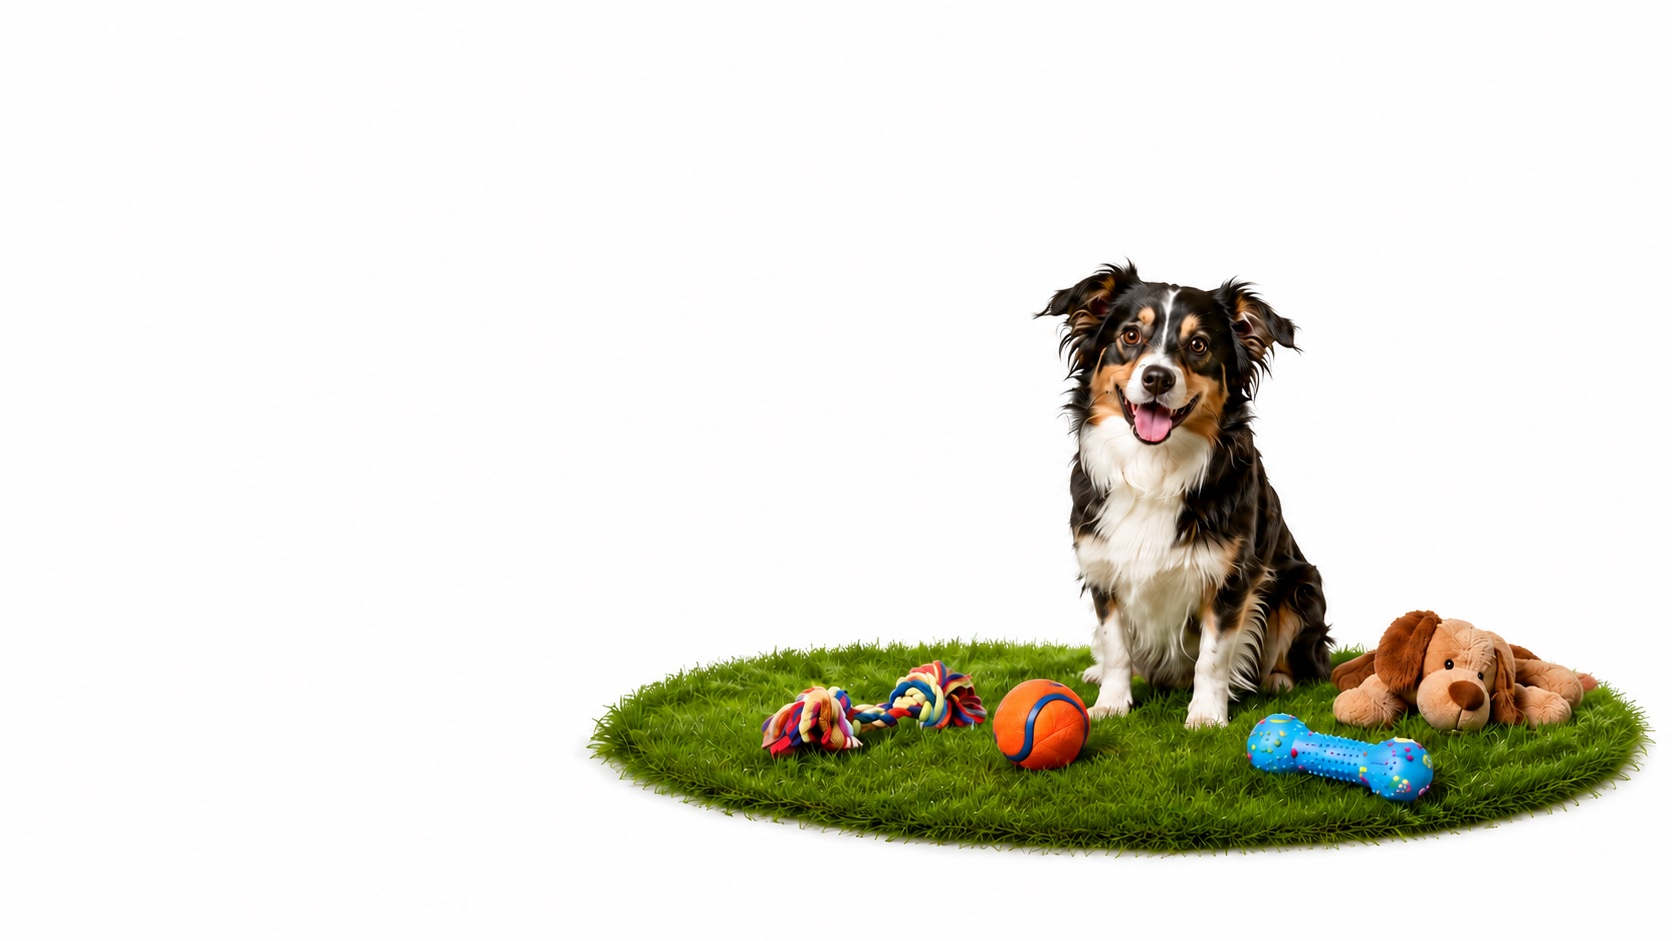
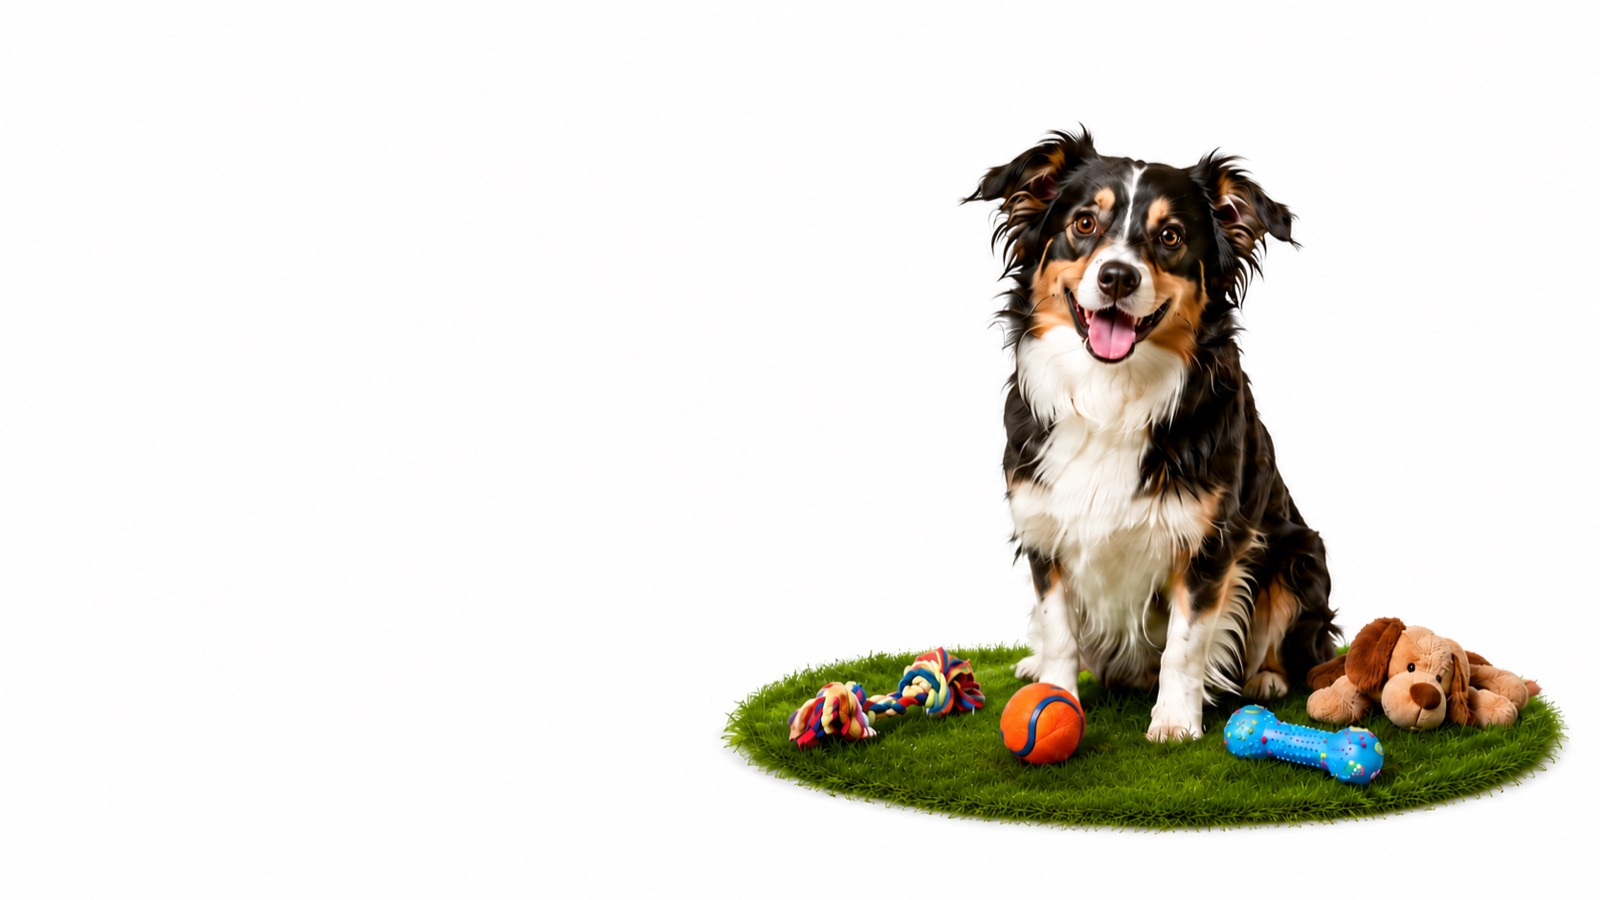
Hero a pantalla completa + tema blanco + fotos de categorías
- Hero: imagen de fondo a pantalla completa (100dvh), versión vertical en
  mobile y ancha en desktop, texto a la izquierda con velo solo a un lado,
  sin la card de dirección.
- Navbar: efecto gris glass liquid (blur + saturación + brillo de borde).
- Logo Zafari con fondo transparente (en nav y footer).
- Fondo del sitio, footer y catálogo en blanco.
- "Comprá por categoría": fotos reales de perro, gato y golden con juguete.
- Catálogo: keywords de imágenes más acordes a cada producto.
- Imagen mobile del hero optimizada.

Changed region(s): [[0.3438, 0.1244, 1.0, 0.9333]]

diff --git a/src/components/Hero.jsx b/src/components/Hero.jsx
@@ -1,6 +1,6 @@
 import { motion, useReducedMotion } from 'motion/react'
 import { Link } from 'react-router-dom'
-import { ArrowRight, ChatCircleDots, Storefront } from '../icons'
+import { ArrowRight, ChatCircleDots } from '../icons'
 
 export default function Hero() {
   const reduce = useReducedMotion()
@@ -11,20 +11,34 @@ export default function Hero() {
   })
 
   return (
-    <section id="top" className="bg-cream">
-      <div className="relative mx-auto max-w-7xl">
-        {/* imagen completa, a todo el ancho (sin recortar) */}
+    <section
+      id="top"
+      className="relative flex min-h-[100dvh] items-start overflow-hidden bg-white md:items-center"
+    >
+      {/* imagen de fondo a pantalla completa: vertical en mobile, ancha en desktop */}
+      <picture>
+        <source media="(min-width: 768px)" srcSet="/hero-bg.jpg" />
         <img
-          src="/hero-bg.jpg"
+          src="/hero-mobile.jpg"
           alt="Perro con sus juguetes en el pasto"
-          className="block h-auto w-full"
+          className="absolute inset-0 h-full w-full object-cover object-bottom md:object-right"
           loading="eager"
           fetchPriority="high"
         />
+      </picture>
+      {/* velo desktop: a la izquierda, para que el texto se lea sin opacar al perro */}
+      <div
+        aria-hidden
+        className="absolute inset-0 hidden bg-gradient-to-r from-white from-15% via-white/70 via-35% to-transparent to-55% md:block lg:to-50%"
+      />
+      {/* velo mobile: arriba, donde va el texto */}
+      <div
+        aria-hidden
+        className="absolute inset-0 bg-gradient-to-b from-white from-25% via-white/70 to-transparent to-55% md:hidden"
+      />
 
-        {/* contenido: debajo de la imagen en mobile, superpuesto en desktop */}
-        <div className="px-4 pb-12 pt-8 sm:px-6 lg:absolute lg:inset-0 lg:flex lg:items-center lg:px-10 lg:py-0">
-          <div className="max-w-xl lg:max-w-[48%]">
+      <div className="relative mx-auto w-full max-w-7xl px-4 pb-20 pt-20 sm:px-6 md:py-20 lg:px-10">
+        <div className="max-w-xl">
           <motion.span
             {...rise(0)}
             className="inline-flex items-center gap-2 rounded-full border border-line bg-surface px-3.5 py-1.5 text-xs font-semibold uppercase tracking-[0.14em] text-leaf"
@@ -70,21 +84,6 @@ export default function Hero() {
               Cómo comprar
             </a>
           </motion.div>
-
-          {/* local info */}
-          <motion.div
-            {...rise(0.32)}
-            className="mt-8 inline-flex items-center gap-3 rounded-2xl border border-line bg-surface/95 px-4 py-3 shadow-sm backdrop-blur-sm"
-          >
-            <span className="grid h-10 w-10 place-items-center rounded-xl bg-leaf-soft text-leaf-deep">
-              <Storefront weight="fill" size={20} />
-            </span>
-            <span className="text-sm leading-tight">
-              <span className="block font-bold text-ink">Avellaneda 1796 · Rosario</span>
-              <span className="text-ink-soft">Lun a Sáb · 9 a 19:30 hs</span>
-            </span>
-          </motion.div>
-          </div>
         </div>
       </div>
     </section>

diff --git a/src/data.js b/src/data.js
@@ -40,28 +40,28 @@ export const categories = [
 
 export const products = [
   // Alimento balanceado — Minorista
-  { id: 1, name: 'Balanceado Perro Adulto 15kg', brand: 'Old Prince', cat: 'alimento', sub: 'alimento-minorista', price: 38900, tag: 'Más vendido', img: f('dogfood,kibble', 11) },
-  { id: 2, name: 'Balanceado Gato Adulto 7.5kg', brand: 'Royal Canin', cat: 'alimento', sub: 'alimento-minorista', price: 41200, img: f('catfood', 12) },
-  { id: 3, name: 'Balanceado Cachorro 3kg', brand: 'Pro Plan', cat: 'alimento', sub: 'alimento-minorista', price: 18900, img: f('puppy,food', 13) },
+  { id: 1, name: 'Balanceado Perro Adulto 15kg', brand: 'Old Prince', cat: 'alimento', sub: 'alimento-minorista', price: 38900, tag: 'Más vendido', img: f('dogfood,bag', 11) },
+  { id: 2, name: 'Balanceado Gato Adulto 7.5kg', brand: 'Royal Canin', cat: 'alimento', sub: 'alimento-minorista', price: 41200, img: f('catfood,bag', 12) },
+  { id: 3, name: 'Balanceado Cachorro 3kg', brand: 'Pro Plan', cat: 'alimento', sub: 'alimento-minorista', price: 18900, img: f('dogfood,puppy', 13) },
   // Alimento balanceado — Mayorista
   { id: 4, name: 'Pallet Balanceado Adulto x12 (15kg)', brand: 'Dog Chow', cat: 'alimento', sub: 'alimento-mayorista', price: 410000, tag: 'Por mayor', img: f('dogfood,sacks', 14) },
-  { id: 5, name: 'Caja Alimento Gato x10 (7.5kg)', brand: 'Excellent', cat: 'alimento', sub: 'alimento-mayorista', price: 360000, tag: 'Por mayor', img: f('catfood,boxes', 15) },
+  { id: 5, name: 'Caja Alimento Gato x10 (7.5kg)', brand: 'Excellent', cat: 'alimento', sub: 'alimento-mayorista', price: 360000, tag: 'Por mayor', img: f('catfood,box', 15) },
 
   // Accesorios — Collares
   { id: 6, name: 'Collar Regulable de Nylon', brand: 'PetComfort', cat: 'accesorios', sub: 'accesorios-collares', price: 6800, img: f('dog,collar', 21) },
-  { id: 7, name: 'Collar Antipulgas', brand: 'Kong', cat: 'accesorios', sub: 'accesorios-collares', price: 9200, tag: 'Nuevo', img: f('pet,collar', 22) },
+  { id: 7, name: 'Collar Antipulgas', brand: 'Kong', cat: 'accesorios', sub: 'accesorios-collares', price: 9200, tag: 'Nuevo', img: f('puppy,collar', 22) },
   // Accesorios — Correas
   { id: 8, name: 'Correa Retráctil 5m', brand: 'PetComfort', cat: 'accesorios', sub: 'accesorios-correas', price: 12400, img: f('dog,leash', 23) },
-  { id: 9, name: 'Correa de Cuero Reforzada', brand: 'Kong', cat: 'accesorios', sub: 'accesorios-correas', price: 15900, img: f('leash,dog', 24) },
+  { id: 9, name: 'Correa de Cuero Reforzada', brand: 'Kong', cat: 'accesorios', sub: 'accesorios-correas', price: 15900, img: f('leather,leash', 24) },
   // Accesorios — Cosmética mascota
-  { id: 10, name: 'Shampoo Hipoalergénico 500ml', brand: 'Vitalcan', cat: 'accesorios', sub: 'accesorios-cosmetica', price: 7300, img: f('pet,shampoo', 25) },
-  { id: 11, name: 'Perfume para Mascotas 120ml', brand: 'Excellent', cat: 'accesorios', sub: 'accesorios-cosmetica', price: 5400, img: f('dog,grooming', 26) },
+  { id: 10, name: 'Shampoo Hipoalergénico 500ml', brand: 'Vitalcan', cat: 'accesorios', sub: 'accesorios-cosmetica', price: 7300, img: f('shampoo,bottle', 25) },
+  { id: 11, name: 'Perfume para Mascotas 120ml', brand: 'Excellent', cat: 'accesorios', sub: 'accesorios-cosmetica', price: 5400, img: f('perfume,bottle', 26) },
 
   // Juguetes de entretenimiento
-  { id: 12, name: 'Pelota de Caucho Resistente', brand: 'Kong', cat: 'juguetes', sub: null, price: 8990, tag: 'Más vendido', img: f('dog,toy,ball', 31) },
-  { id: 13, name: 'Soga Mordedor Trenzada', brand: 'PlayPet', cat: 'juguetes', sub: null, price: 4990, img: f('dog,rope,toy', 32) },
-  { id: 14, name: 'Ratón con Catnip x3', brand: 'PlayCat', cat: 'juguetes', sub: null, price: 4290, img: f('cat,toy', 33) },
-  { id: 15, name: 'Hueso de Juguete Sonoro', brand: 'PlayPet', cat: 'juguetes', sub: null, price: 3990, tag: 'Nuevo', img: f('dog,toy', 34) },
+  { id: 12, name: 'Pelota de Caucho Resistente', brand: 'Kong', cat: 'juguetes', sub: null, price: 8990, tag: 'Más vendido', img: f('dog,ball', 31) },
+  { id: 13, name: 'Soga Mordedor Trenzada', brand: 'PlayPet', cat: 'juguetes', sub: null, price: 4990, img: f('rope,toy', 32) },
+  { id: 14, name: 'Ratón con Catnip x3', brand: 'PlayCat', cat: 'juguetes', sub: null, price: 4290, img: f('cat,toy,mouse', 33) },
+  { id: 15, name: 'Hueso de Juguete Sonoro', brand: 'PlayPet', cat: 'juguetes', sub: null, price: 3990, tag: 'Nuevo', img: f('dog,bone', 34) },
 ]
 
 // ── Peluquería canina ──────────────────────────────────────────────

diff --git a/src/components/Categories.jsx b/src/components/Categories.jsx
@@ -2,8 +2,14 @@ import { motion, useReducedMotion } from 'motion/react'
 import { Link } from 'react-router-dom'
 import { categories } from '../data'
 import Reveal from './Reveal'
+import perro from '../assets/categorias/perro.jpg'
+import gato from '../assets/categorias/gato.jpg'
+import juguete from '../assets/categorias/juguete.jpg'
 
 const MotionLink = motion.create(Link)
+
+// Fotos reales por categoría (el resto usa su imagen por defecto).
+const fotos = { alimento: perro, accesorios: gato, juguetes: juguete }
 
 export default function Categories() {
   const reduce = useReducedMotion()
@@ -40,12 +46,14 @@ export default function Categories() {
             >
               <div className="aspect-square w-full overflow-hidden rounded-full bg-cream-deep shadow-sm ring-4 ring-leaf-soft ring-offset-4 ring-offset-cream transition-all duration-300 group-hover:shadow-md group-hover:ring-leaf">
                 <img
-                  src={c.img}
+                  src={fotos[c.id] || c.img}
                   alt={`Foto de ${c.label}`}
                   width={440}
                   height={440}
                   loading="lazy"
-                  className="h-full w-full object-cover transition-transform duration-500 ease-out group-hover:scale-110"
+                  className={`h-full w-full object-cover transition-transform duration-500 ease-out group-hover:scale-110 ${
+                    fotos[c.id] ? 'object-top' : ''
+                  }`}
                 />
               </div>
               <h3 className="mt-6 font-display text-xl font-bold text-ink transition-colors duration-200 group-hover:text-leaf">

diff --git a/src/components/Footer.jsx b/src/components/Footer.jsx
@@ -25,13 +25,13 @@ const cols = [
 
 export default function Footer() {
   return (
-    <footer id="contacto" className="border-t border-line bg-surface">
+    <footer id="contacto" className="border-t border-line bg-white">
       <div className="mx-auto max-w-7xl px-4 py-14 sm:px-6">
         <div className="grid gap-10 md:grid-cols-2 lg:grid-cols-12">
           {/* brand */}
           <div className="md:col-span-2 lg:col-span-5">
             <Link to="/" className="flex items-center gap-2.5" aria-label="Zafari · inicio">
-              <img src="/logo-zafari.png" alt="Zafari" width={160} height={160} className="h-14 w-auto mix-blend-multiply" />
+              <img src="/logo-zafari.png" alt="Zafari" width={160} height={160} className="h-14 w-auto" />
             </Link>
             <p className="mt-4 max-w-[42ch] text-sm leading-relaxed text-ink-soft">
               Aventura para tus mascotas. Alimento balanceado, accesorios y juguetes, con

diff --git a/src/components/Nav.jsx b/src/components/Nav.jsx
@@ -11,7 +11,7 @@ const links = [
 
 export default function Nav() {
   return (
-    <header className="sticky top-0 z-40 border-b border-line/70 bg-cream/85 backdrop-blur-md">
+    <header className="sticky top-0 z-40 border-b border-white/40 bg-zinc-200/45 shadow-[inset_0_1px_0_rgba(255,255,255,0.6)] backdrop-blur-xl backdrop-saturate-150">
       <div className="mx-auto flex h-16 max-w-7xl items-center justify-between gap-6 px-4 sm:px-6">
         <Link to="/" className="flex items-center" aria-label="Zafari · inicio">
           <img
@@ -19,7 +19,7 @@ export default function Nav() {
             alt="Zafari"
             width={160}
             height={160}
-            className="h-14 w-auto mix-blend-multiply"
+            className="h-14 w-auto"
           />
         </Link>
 

diff --git a/src/components/Catalog.jsx b/src/components/Catalog.jsx
@@ -82,7 +82,7 @@ export default function Catalog({ active, setActive }) {
     : []
 
   return (
-    <section id="catalogo" className="scroll-mt-20 bg-cream-deep/60 py-20 lg:py-28">
+    <section id="catalogo" className="scroll-mt-20 bg-white py-20 lg:py-28">
       <div className="mx-auto max-w-7xl px-4 sm:px-6">
         <div className="flex flex-col gap-6 sm:flex-row sm:items-end sm:justify-between">
           <div>

diff --git a/src/components/Layout.jsx b/src/components/Layout.jsx
@@ -21,7 +21,7 @@ function ScrollManager() {
 
 export default function Layout() {
   return (
-    <div className="min-h-[100dvh] bg-cream">
+    <div className="min-h-[100dvh] bg-white">
       <ScrollManager />
       <Nav />
       <main>

diff --git a/src/index.css b/src/index.css
@@ -34,7 +34,7 @@
   }
   body {
     margin: 0;
-    background-color: var(--color-cream);
+    background-color: #ffffff;
     color: var(--color-ink);
     font-family: var(--font-sans);
     -webkit-font-smoothing: antialiased;